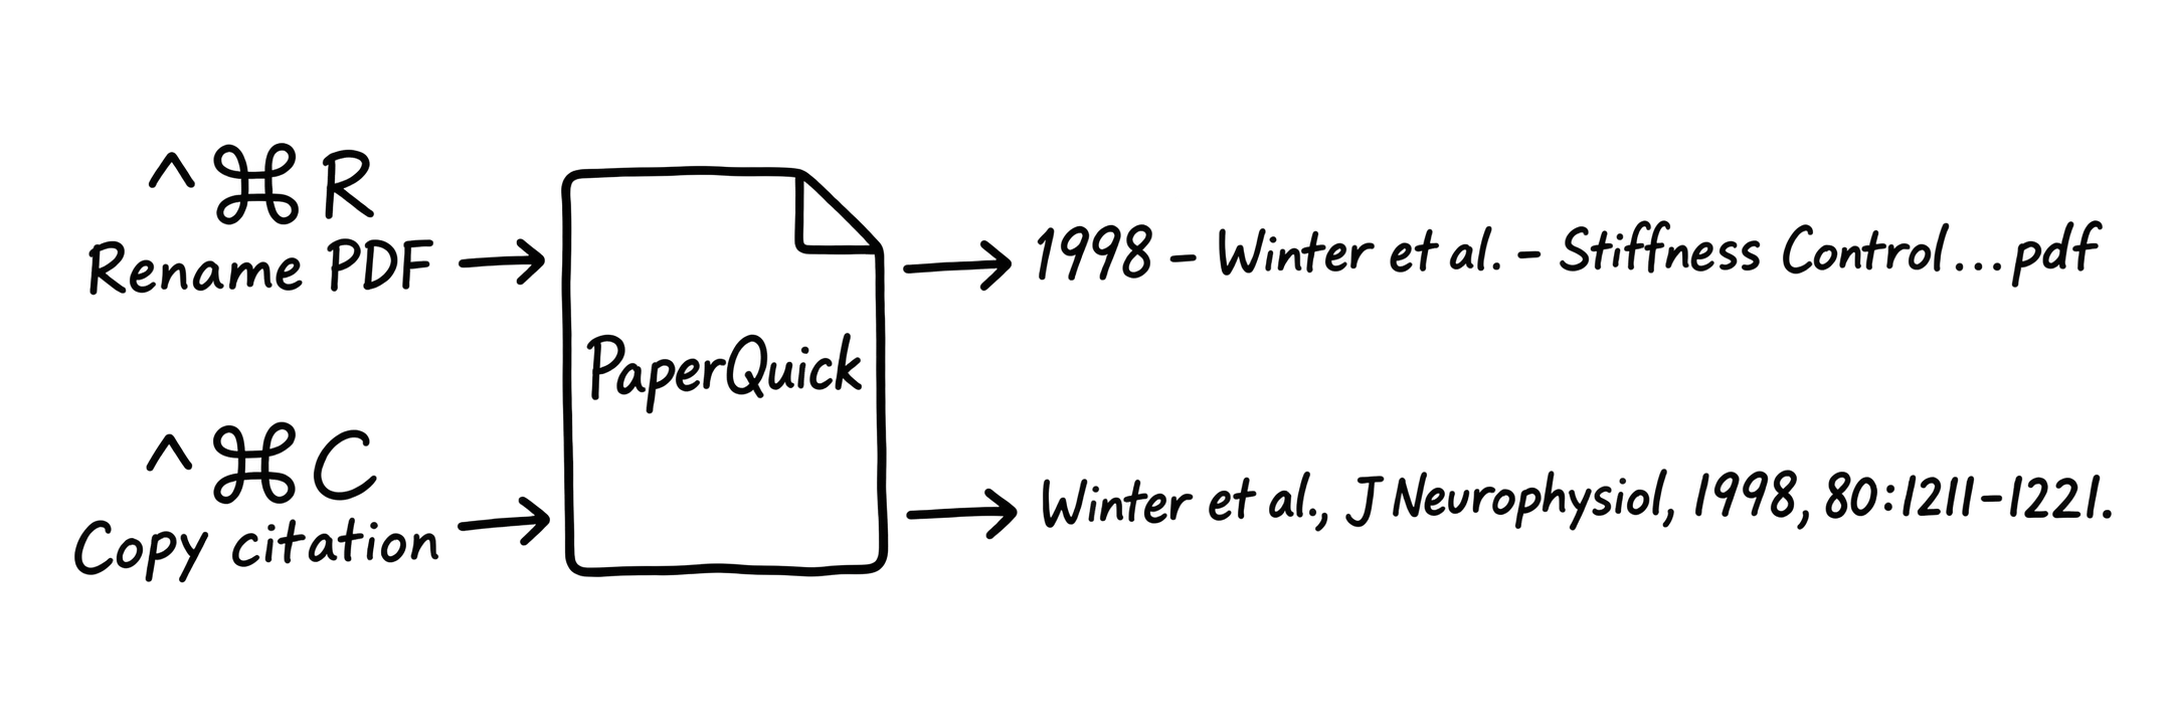
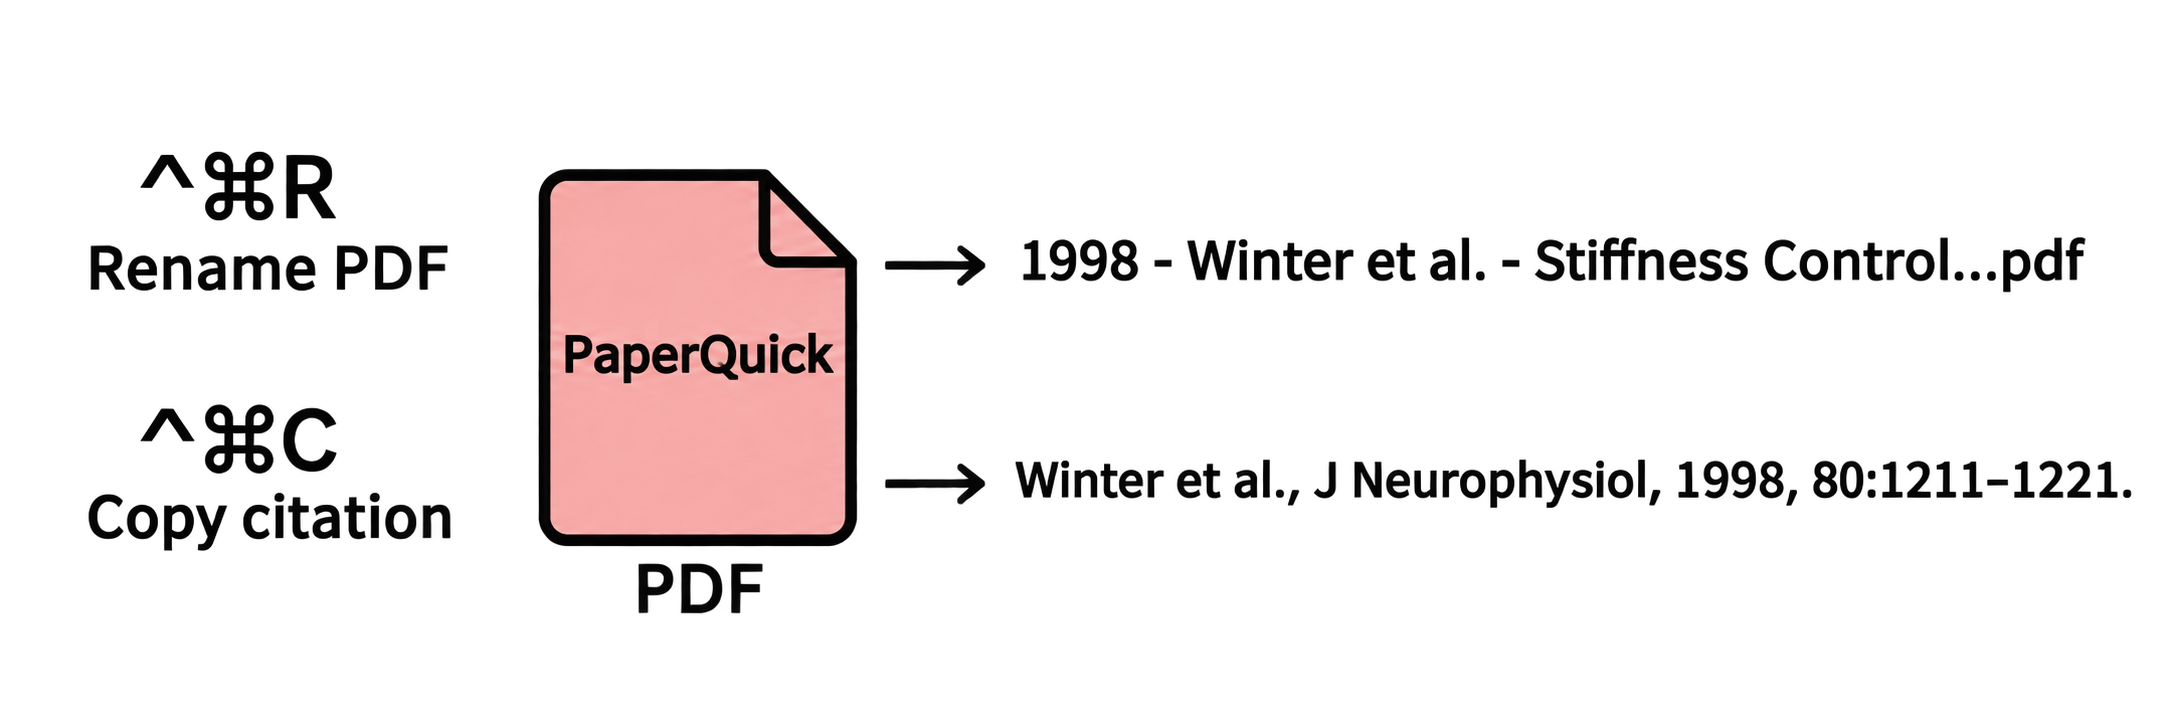
Refine README visuals and usage example

Changed region(s): [[0.0308, 0.2127, 0.9871, 0.8508], [0.0617, 0.1823, 0.1851, 0.3039]]

diff --git a/README.md b/README.md
@@ -1,6 +1,6 @@
 # PaperQuick
 
-Rename academic PDFs and copy slide-ready citations directly from Finder on macOS. No Zotero required.
+Rename academic PDFs and copy slide-ready citations directly from Finder on macOS.
 
 <p align="center">
   <img src="assets/paperquick-workflow.png" alt="PaperQuick renames academic PDFs and copies slide-ready citations from Finder" width="100%">
@@ -18,6 +18,10 @@ curl -fsSL https://raw.githubusercontent.com/Scarf-0/PaperQuick/main/install.sh 
 
 Select one or more PDFs in Finder, right-click, then choose **Services**. On some
 macOS versions, Automator workflows may instead be grouped under **Quick Actions**.
+
+<p align="center">
+  <img src="assets/finder-services.png" alt="PaperQuick commands in the Finder Services menu" width="85%">
+</p>
 
 - **PaperQuick - Rename PDF** creates names such as `1998 - Winter et al. - Stiffness Control of Balance in Quiet Standing.pdf`.
 - **PaperQuick - Copy PPT Citation** copies citations such as `Winter et al., J Neurophysiol, 1998, 80:1211–1221.`
